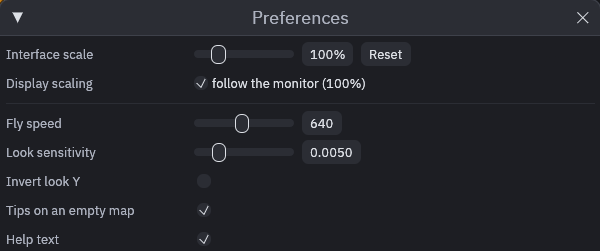
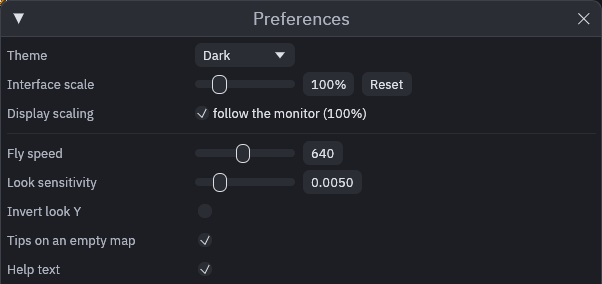
Document the theme setting

diff --git a/docs/editor/interface.md b/docs/editor/interface.md
@@ -132,9 +132,42 @@ Once the map has a [bake](light-baking.md), **Baked Lighting** comes after Lit P
 Lit Preview shows the map's lights, sun shadows, sky and fog without building in Godot. It only draws the 64 strongest
 point and spot lights, so a map with many more can look darker here than in Godot.
 
+## Theme
+
+TrenchDot comes in a dark and a light look. A fresh install starts dark.
+
+1. Open **File > Preferences**. **Theme** is the first row, at the top of the window.
+2. Click the dropdown and pick **Dark**, **Light** or **System**.
+
+    ![The Theme dropdown in Preferences, open with Dark, Light and System](../assets/interface/preferences-theme.png)
+
+3. The whole editor changes on the next frame, no restart. The choice is saved with your other preferences.
+
+    ![The editor in the light theme, with the menu bar, the Outliner, the 3D view and the Top view](../assets/interface/theme-light-window.png)
+
+**System** follows the light or dark app mode of your operating system and changes with it. While it is picked, the
+dropdown reads *System (Light)* or *System (Dark)* so you can see what your system gave. Where the system does not
+report a mode, the editor stays dark.
+
+You can also pick it in **View > Theme**, right below *Interface Scale*, or in the command palette as *View: Theme:
+Dark*, *Light* or *System*. No key is bound by default, but you can give each one a key in the keymap editor.
+
+In Light, the 2D views (Top, Front and Side) turn into paper, a light gray background with dark grid lines and brush
+edges, so the lines you draw still read at a glance. The 3D view keeps its dark surround in both themes, and so do the
+texture canvases of the UV editor and the hotspot editor. A texture looks the same in either theme, and a light
+surround would change how you judge its colors.
+
+<div class="td-mcp" markdown>
+
+Over the [MCP server](../mcp.md), `set_editor` with `"theme": "light"` switches the theme. The values are `dark`,
+`light` and `system`, and an unknown one is an error that changes nothing. `get_state` reports the choice as
+`ui.theme` and what is on screen as `ui.theme_active`.
+
+</div>
+
 ## Interface scale
 
 Ctrl+= and Ctrl+- scale the interface and Ctrl+0 resets it. You find the same as *Interface scale* at the top of
 *File > Preferences*. If the monitor reports the wrong display scaling, untick *follow the monitor* right beneath it.
 
-![The top of the Preferences window: Interface scale at 100%, Display scaling with follow the monitor ticked, and below them Tips on an empty map and Help text](../assets/interface/preferences-scale-and-tips.png)
+![The top of the Preferences window: Theme set to Dark, Interface scale at 100%, Display scaling with follow the monitor ticked, and below them Tips on an empty map and Help text](../assets/interface/preferences-scale-and-tips.png)
